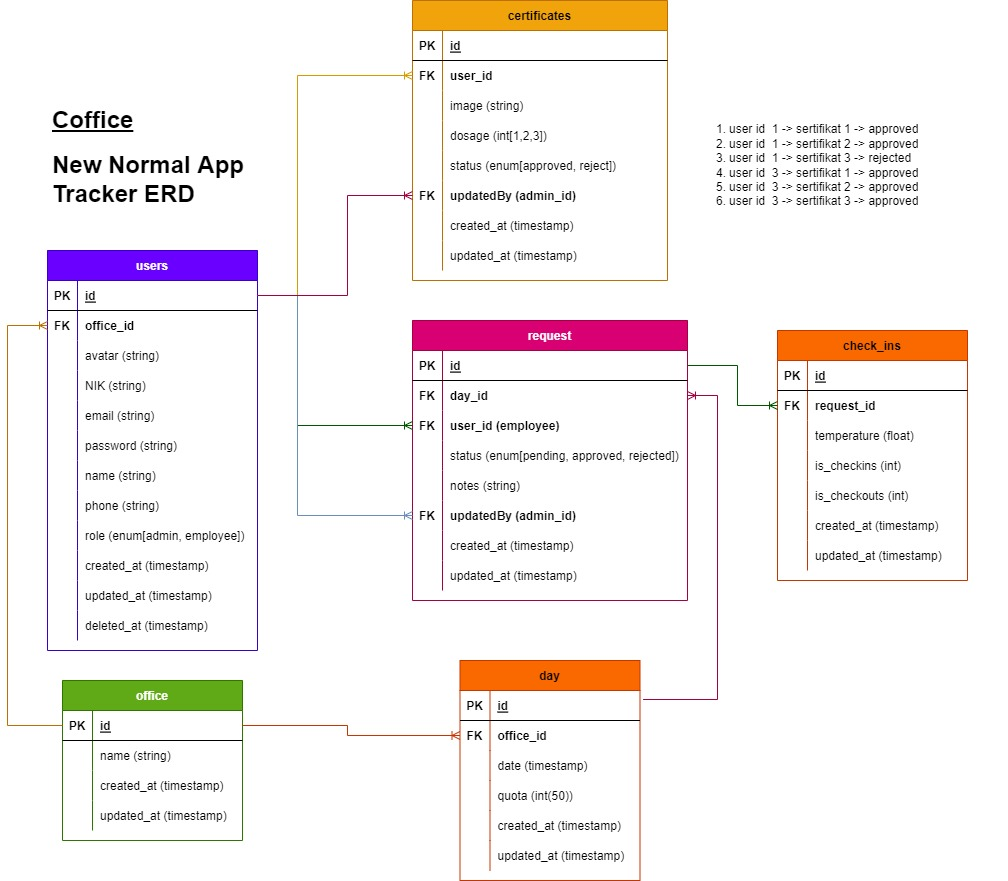
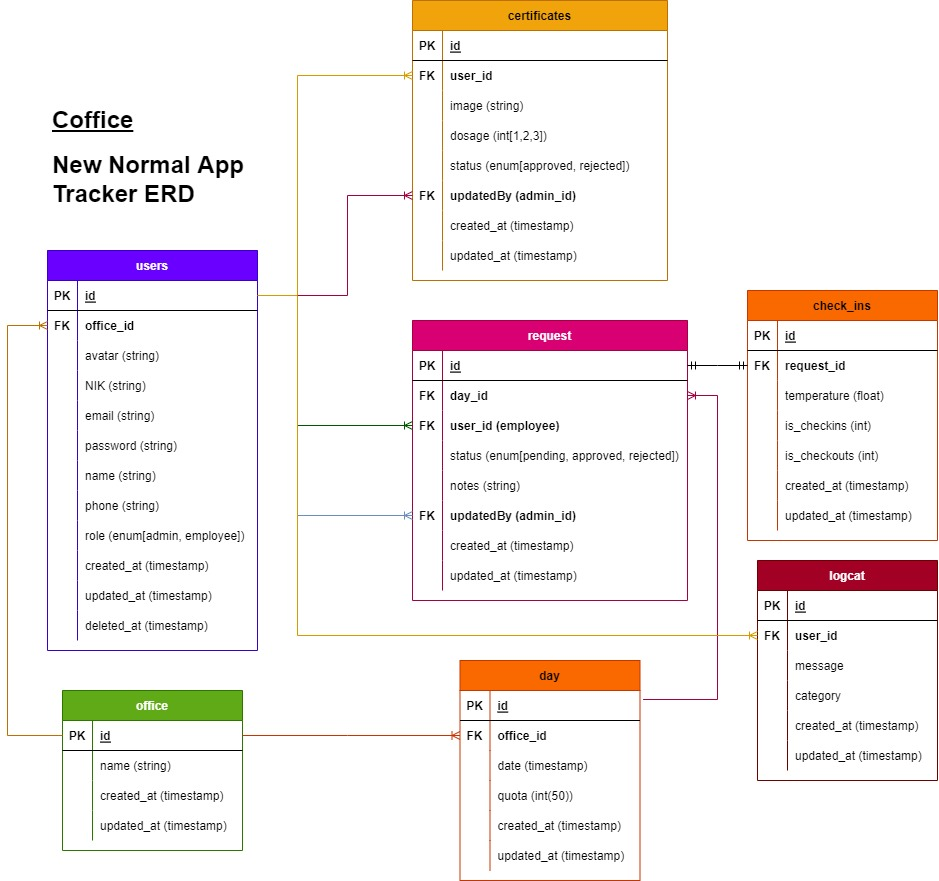
readme

diff --git a/README.md b/README.md
@@ -1,4 +1,4 @@
-# Coffice New Normal Tracking App
+![Typing SVG](https://readme-typing-svg.herokuapp.com/?color=%23F79251&size=50&width=1100&height=100&lines=Cofficed+-+New+Normal+Tracker+App)
 
 <!-- PROJECT LOGO -->
 <br/>
@@ -7,24 +7,47 @@
     <img src="images/Logo-black.png" alt="Logo" height="200" width="200">
   </a>
   <p align="center">
-    Pembangunan RESTful API menggunakan Gorilla Mux(router) & RS Cors(cors)
+    RESTful API with Gorilla Mux(router) & RS Cors(cors)
+    </br>
+    <a href="https://github.com/HamzahAA15/group2-project-capstone/issues">Report Bug</a>
+    .
+    <a href="https://github.com/HamzahAA15/group2-project-capstone/issues">Request Feature</a>
+
   </p>
 </div>
 
 ### 🛠 &nbsp;Build App & Database
 
+![GitHub commit activity](https://img.shields.io/github/commit-activity/m/HamzahAA15/group2-project-capstone)&nbsp;
 ![JSON](https://img.shields.io/badge/-JSON-05122A?style=flat&logo=json&logoColor=000000)&nbsp;
 ![GitHub](https://img.shields.io/badge/-GitHub-05122A?style=flat&logo=github)&nbsp;
 ![Visual Studio Code](https://img.shields.io/badge/-Visual%20Studio%20Code-05122A?style=flat&logo=visual-studio-code&logoColor=007ACC)&nbsp;
 ![MySQL](https://img.shields.io/badge/-MySQL-05122A?style=flat&logo=mysql&logoColor=4479A1)&nbsp;
 ![Golang](https://img.shields.io/badge/-Golang-05122A?style=flat&logo=go&logoColor=4479A1)&nbsp;
 ![AWS](https://img.shields.io/badge/-AWS-05122A?style=flat&logo=amazon)&nbsp;
+![AWS](https://img.shields.io/badge/-AWS_S3-05122A?style=flat&logo=amazons3)&nbsp;
 ![Postman](https://img.shields.io/badge/-Postman-05122A?style=flat&logo=postman)&nbsp;
 ![Docker](https://img.shields.io/badge/-Docker-05122A?style=flat&logo=docker)&nbsp;
+![Docker](https://img.shields.io/badge/-GorillaMux-05122A?style=flat&logo=gorilla)&nbsp;
+![Docker](https://img.shields.io/badge/-RSCORS-05122A?style=flat)&nbsp;
 
 <!-- ABOUT THE PROJECT -->
 
 ## 💻 &nbsp;About The Project
+
+<p>
+  Cofficed is an app for tracking employee who want to Work From Office(WFO). First employee should upload their vaccine certificate, then create a request for WFO at certain office & date, after that admin will review and decide their request whether it would be approved or rejected.
+</p>
+
+<p>
+Cofficed was created for the purpose to prevent and reduce the spread of novel coronavirus covid-19. Built using only the GO standard library, utilize Gorilla Mux at router and RS CORS, with layered architecture approach and isolate the service as a place only for business logic. 
+</p>
+
+[OPEN API](https://app.swaggerhub.com/apis-docs/justjundana/Capstone/1.2)
+
+Find our awesome Front-End repository By Felicia & Lukman below
+</br>
+[Click Here!](https://github.com/feliciakri/cofficed)
 
 <details>
 <summary>ERD</summary>
@@ -35,13 +58,11 @@
   
 | Feature User | Endpoint | Query Param | Request Body | JWT Token | Fungsi |
 | ------------ | ---------| ----------- | ------------ | --------- | ------ |
-| POST         | /users/login | - | email, nik, & password | NO |  |
-| POST         | /users/register  | - | - | NO |  |
-| POST         | /users/avatar  | - | - | YES |  |
-| GET          | /users/ | - | - | YES |  |
-| GET          | /users/profile | - | - | YES |  |
-| PUT          | /users/ | - | - | YES |  | 
-| DEL          | /users/ | - | - | YES |  |
+| POST         | /users/login | - | identity & password | NO | login user with identity & passwords |
+| POST         | /users/register  | - | - | YES |  |
+| POST         | /users/avatar  | - | avatar | YES | upload avatar for user profile |
+| GET          | /users/profile | - | - | YES | get current user profile |
+| PUT          | /users/ | - | password | YES | update current user profile |
 
 </details>
 
@@ -50,50 +71,63 @@
   
 | Feature Office | Endpoint | Query Param | Request Body | JWT Token | Fungsi |
 | --- | --- | --- | --- | --- | --- |
-| GET | /offices/ | - | - | YES |  |
+| GET | /offices/ | - | - | YES | get all offices data |
 
 </details>
 
 <details>
 <summary>📓 &nbsp;Request</summary>
 
-| Feature Request | Endpoint | Query Param | Request Body | JWT Token | Fungsi |
-| --------------- | -------- | ----------- | ------------ | --------- | ------ |
-| -               | -        | -           | -            | -         | -      |
+| Feature Request | Endpoint          | Query Param                                                                                                          | Request Body                         | JWT Token | Fungsi                                                         |
+| --------------- | ----------------- | -------------------------------------------------------------------------------------------------------------------- | ------------------------------------ | --------- | -------------------------------------------------------------- |
+| GET             | /attendances/     | employee_email(str), date_start(str(yyyy-mm-dd)), date_end(str(yyyy-mm-dd)), status(str), office_id(str), order(str) |                                      | YES       | get wfo request data based on desired query param              |
+| GET             | /attendances/user | status(str), order(str)                                                                                              |                                      | YES       | get current user wfo request data based on desired query param |
+| POST            | /attendances/     | -                                                                                                                    | day_id(str)                          | YES       | create wfo request data(employee)                              |
+| PUT             | /attendances/     | -                                                                                                                    | day_id(str), status(str), notes(str) | YES       | update wfo request data status and notes (admin only)          |
 
 </details>
 
 <details>
 <summary>🗓&nbsp;Day</summary>
 
-| Feature Day | Endpoint | Query Param | Request Body | JWT Token       | Fungsi |
-| ----------- | -------- | ----------- | ------------ | --------------- | ------ |
-| GET         | -        | -           | -            | YES             | -      |
-| POST        | -        | -           | -            | YES(only admin) | -      |
+| Feature Day | Endpoint | Query Param      | Request Body            | JWT Token       | Fungsi            |
+| ----------- | -------- | ---------------- | ----------------------- | --------------- | ----------------- |
+| GET         | -        | office_id & date | -                       | YES             | get all days data |
+| PUT         | -        | -                | day_id(str), quota(int) | YES(only admin) | update day data   |
 
 </details>
 
 <details>
 <summary>💉&nbsp;Vaccine Certificates</summary>
 
-| Feature Certificates | Endpoint           | Query Param | Request Body | JWT Token | Fungsi |
-| -------------------- | ------------------ | ----------- | ------------ | --------- | ------ |
-| GET                  | /certificates/     | -           | -            | YES       | -      |
-| GET                  | /certificates/user | -           | -            | YES       | -      |
-| POST                 | /certificates/     | -           | -            | YES       | -      |
-| PUT                  | /certificates/{id} | -           | -            | YES       | -      |
+| Feature Certificates | Endpoint           | Query Param | Request Body | JWT Token       | Fungsi                                     |
+| -------------------- | ------------------ | ----------- | ------------ | --------------- | ------------------------------------------ |
+| GET                  | /certificates/     | -           | -            | YES(only admin) | get all employee's certificate             |
+| GET                  | /certificates/user | -           | -            | YES             | get current user certificate               |
+| POST                 | /certificates/     | -           | image        | YES             | upload certificate                         |
+| PUT                  | /certificates/     | -           | id & status  | YES(only admin) | admin update employee's certificate status |
 
 </details>
 
 <details>
 <summary>⏱&nbsp;Checkins</summary>
 
-| Feature Checkins | Endpoint    | Query Param | Request Body | JWT Token | Fungsi |
-| ---------------- | ----------- | ----------- | ------------ | --------- | ------ |
-| GET              | /check/     | -           | -            | YES       | -      |
-| GET              | /check/user | -           | -            | YES       | -      |
-| POST             | /check/ins  | -           | -            | YES       | -      |
-| POST             | /check/outs | -           | -            | YES       | -      |
+| Feature Checkins | Endpoint    | Query Param | Request Body               | JWT Token | Fungsi                   |
+| ---------------- | ----------- | ----------- | -------------------------- | --------- | ------------------------ |
+| GET              | /check/     | -           | -                          | YES       | get all checkin data     |
+| GET              | /check/user | -           | -                          | YES       | get checkin current user |
+| POST             | /check/ins  | -           | attendance_id & temprature | YES       | -                        |
+| POST             | /check/outs | -           | id & attendance_id         | YES       | -                        |
+
+</details>
+
+<details>
+<summary>📖&nbsp;Logcat</summary>
+
+| Feature Checkins | Endpoint      | Query Param | Request Body | JWT Token | Fungsi                          |
+| ---------------- | ------------- | ----------- | ------------ | --------- | ------------------------------- |
+| GET              | /logcats/     | -           | -            | YES       | get all system log data         |
+| GET              | /logcats/user | -           | -            | YES       | get system log for current user |
 
 </details>
 
@@ -109,16 +143,31 @@
 git clone https://github.com/HamzahAA15/group2-project-capstone
 ```
 
-### 2.1 congif .env
+### 2.1 create file .env
 
 ```bash
 touch .env
 ```
 
-### 2.2 isi .env
+### 2.2 open .env
+
+```
+nano .env
+```
+
+### 2.3 write .env
 
 ```bash
-isi .env nya
+mysqlUser=<user>/root
+mysqlPassword=<password>
+mysqlHost=localhost
+mysqlPort=3306
+mysqlName=<schema name>
+mysqlParsetime=True
+mysqlTimeLocation=Local
+REGION=<region AWS>/ap-southeast-1
+KEYID=<KEYID AWS S3>
+SECRETKEY=<SECRETKEY AWS S3>
 ```
 
 ### 3. run main.go

diff --git a/code-structure.md b/code-structure.md
@@ -1,0 +1,56 @@
+├── controller
+│ ├── handler
+│ │ ├── attendanceHandler
+│ │ ├── certificateHandler
+│ │ ├── checkInsOutsHandler
+│ │ ├── dayHandler
+│ │ ├── logcatHandler
+│ │ ├── officeHandler
+│ │ └── userHandler
+│ │
+│ └── service
+│ ├── attendanceService
+│ ├── certificateService
+│ ├── checkInsOutsService
+│ ├── dayService
+│ ├── logcatService
+│ ├── officeService
+│ └── userService
+│
+├── database
+│ └── migrations
+│
+├── entities
+│ ├── attendanceEntities
+│ ├── certificateEntities
+│ ├── checkInsOutsEntities
+│ ├── dayEntities
+│ ├── logcatEntities
+│ ├── officeEntities
+│ └── userEntities
+│
+├── middleware
+│
+├── repository
+│ ├── attendanceRepository
+│ ├── certificateRepository
+│ ├── checkInsOutsRepository
+│ ├── dayRepository
+│ ├── logcatRepository
+│ ├── officeRepository
+│ └── userRepository
+│
+├── router
+│ ├── attendanceRouter
+│ ├── certificateRouter
+│ ├── checkInsOutsRouter
+│ ├── dayRouter
+│ ├── logcatRouter
+│ ├── officeRouter
+│ └── userRouter
+│
+└── utils
+├── request
+├── response
+├── upload
+└── validation
